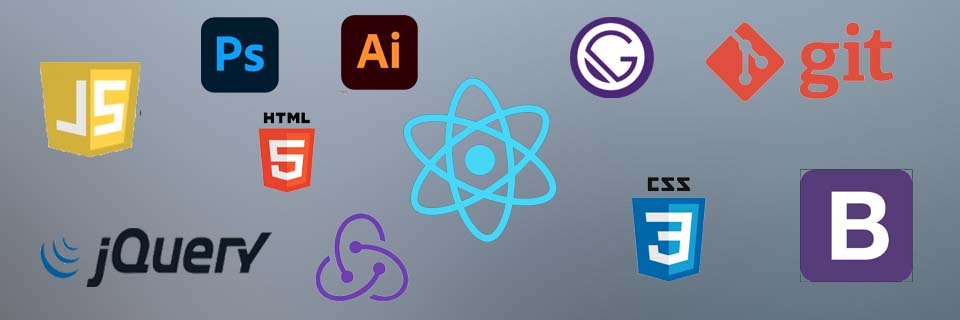
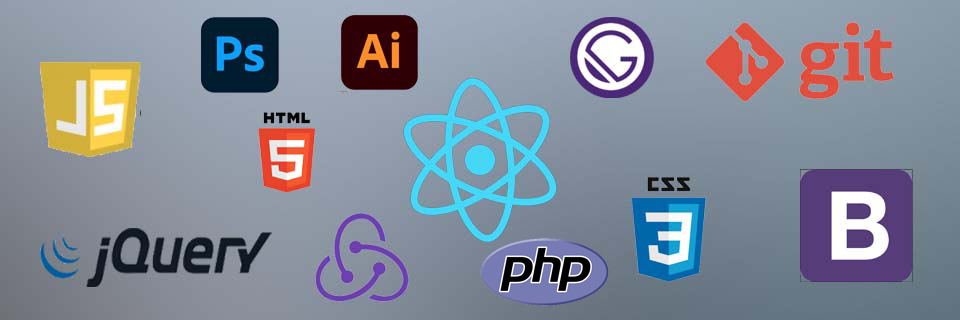
php追加

Changed region(s): [[0.5, 0.75, 0.6562, 0.9688], [0.0625, 0.1875, 0.1562, 0.2188], [0.2812, 0.375, 0.3125, 0.4062]]

diff --git a/src/components/article/ContactForm.js b/src/components/article/ContactForm.js
@@ -4,28 +4,6 @@ import React from 'react';
 const ContactForm = () => {
     return (
         <>
-            {/* <form name="contact" method="POST" data-netlify="true">
-                <input type="hidden" name="form-name" value="contact" />
-                <p>
-                    <label>Your Name: <input type="text" name="name" /></label>
-                </p>
-                <p>
-                    <label>Your Email: <input type="email" name="email" /></label>
-                </p>
-                <p>
-                    <label>Your Role: <select name="role[]" multiple>
-                        <option value="leader">Leader</option>
-                        <option value="follower">Follower</option>
-                    </select></label>
-                </p>
-                <p>
-                    <label>Message: <textarea name="message"></textarea></label>
-                </p>
-                <p>
-                    <button type="submit">Send</button>
-                </p>
-            </form> */}
-
             <form name="contact" method="POST" data-netlify="true">
                 <input type="hidden" name="form-name" value="contact" />
                 <div className="field half first">

diff --git a/src/components/article/Skils.js b/src/components/article/Skils.js
@@ -29,6 +29,7 @@ const Skils = ({ close, articleTimeout, article }) => {
                     <li><span style={skil}>CSS　</span>:　★★★★</li>
                     <li><span style={skil}>JavaScript　</span>:　★★★</li>
                     <li><span style={skil}>jQuery　</span>:　★★★</li>
+                    <li><span style={skil}>PHP　</span>:　★★</li>
                     <li><span style={skil}>Bootstrap　</span>:　★★★★</li>
                     <li><span style={skil}>git　</span>:　★★★</li>
                     <li><span style={skil}>React　</span>:　★★★</li>

diff --git a/src/components/Footer.js b/src/components/Footer.js
@@ -3,7 +3,7 @@ import PropTypes from 'prop-types'
 
 const Footer = (props) => (
     <footer id="footer" style={props.timeout ? { display: 'none' } : {}}>
-        <p className="copyright">&copy;2020/Michihiro Kawaji/All Right ReservedBuilt with: <a href="https://www.gatsbyjs.org/">Gatsby.js</a></p>
+        <p className="copyright">&copy;2020/Michihiro Kawaji/All Right Reserved.</p>
     </footer>
 )
 

diff --git a/src/components/Header.js b/src/components/Header.js
@@ -22,7 +22,7 @@ const Header = props => (
         <ul className="icons">
           <li>
             <a
-              href="https://twitter.com/michi252417"
+              href="https://twitter.com/MICHIHIROKAWAJI"
               className="icon fa-twitter"
             >
               <span className="label">Twitter</span>
